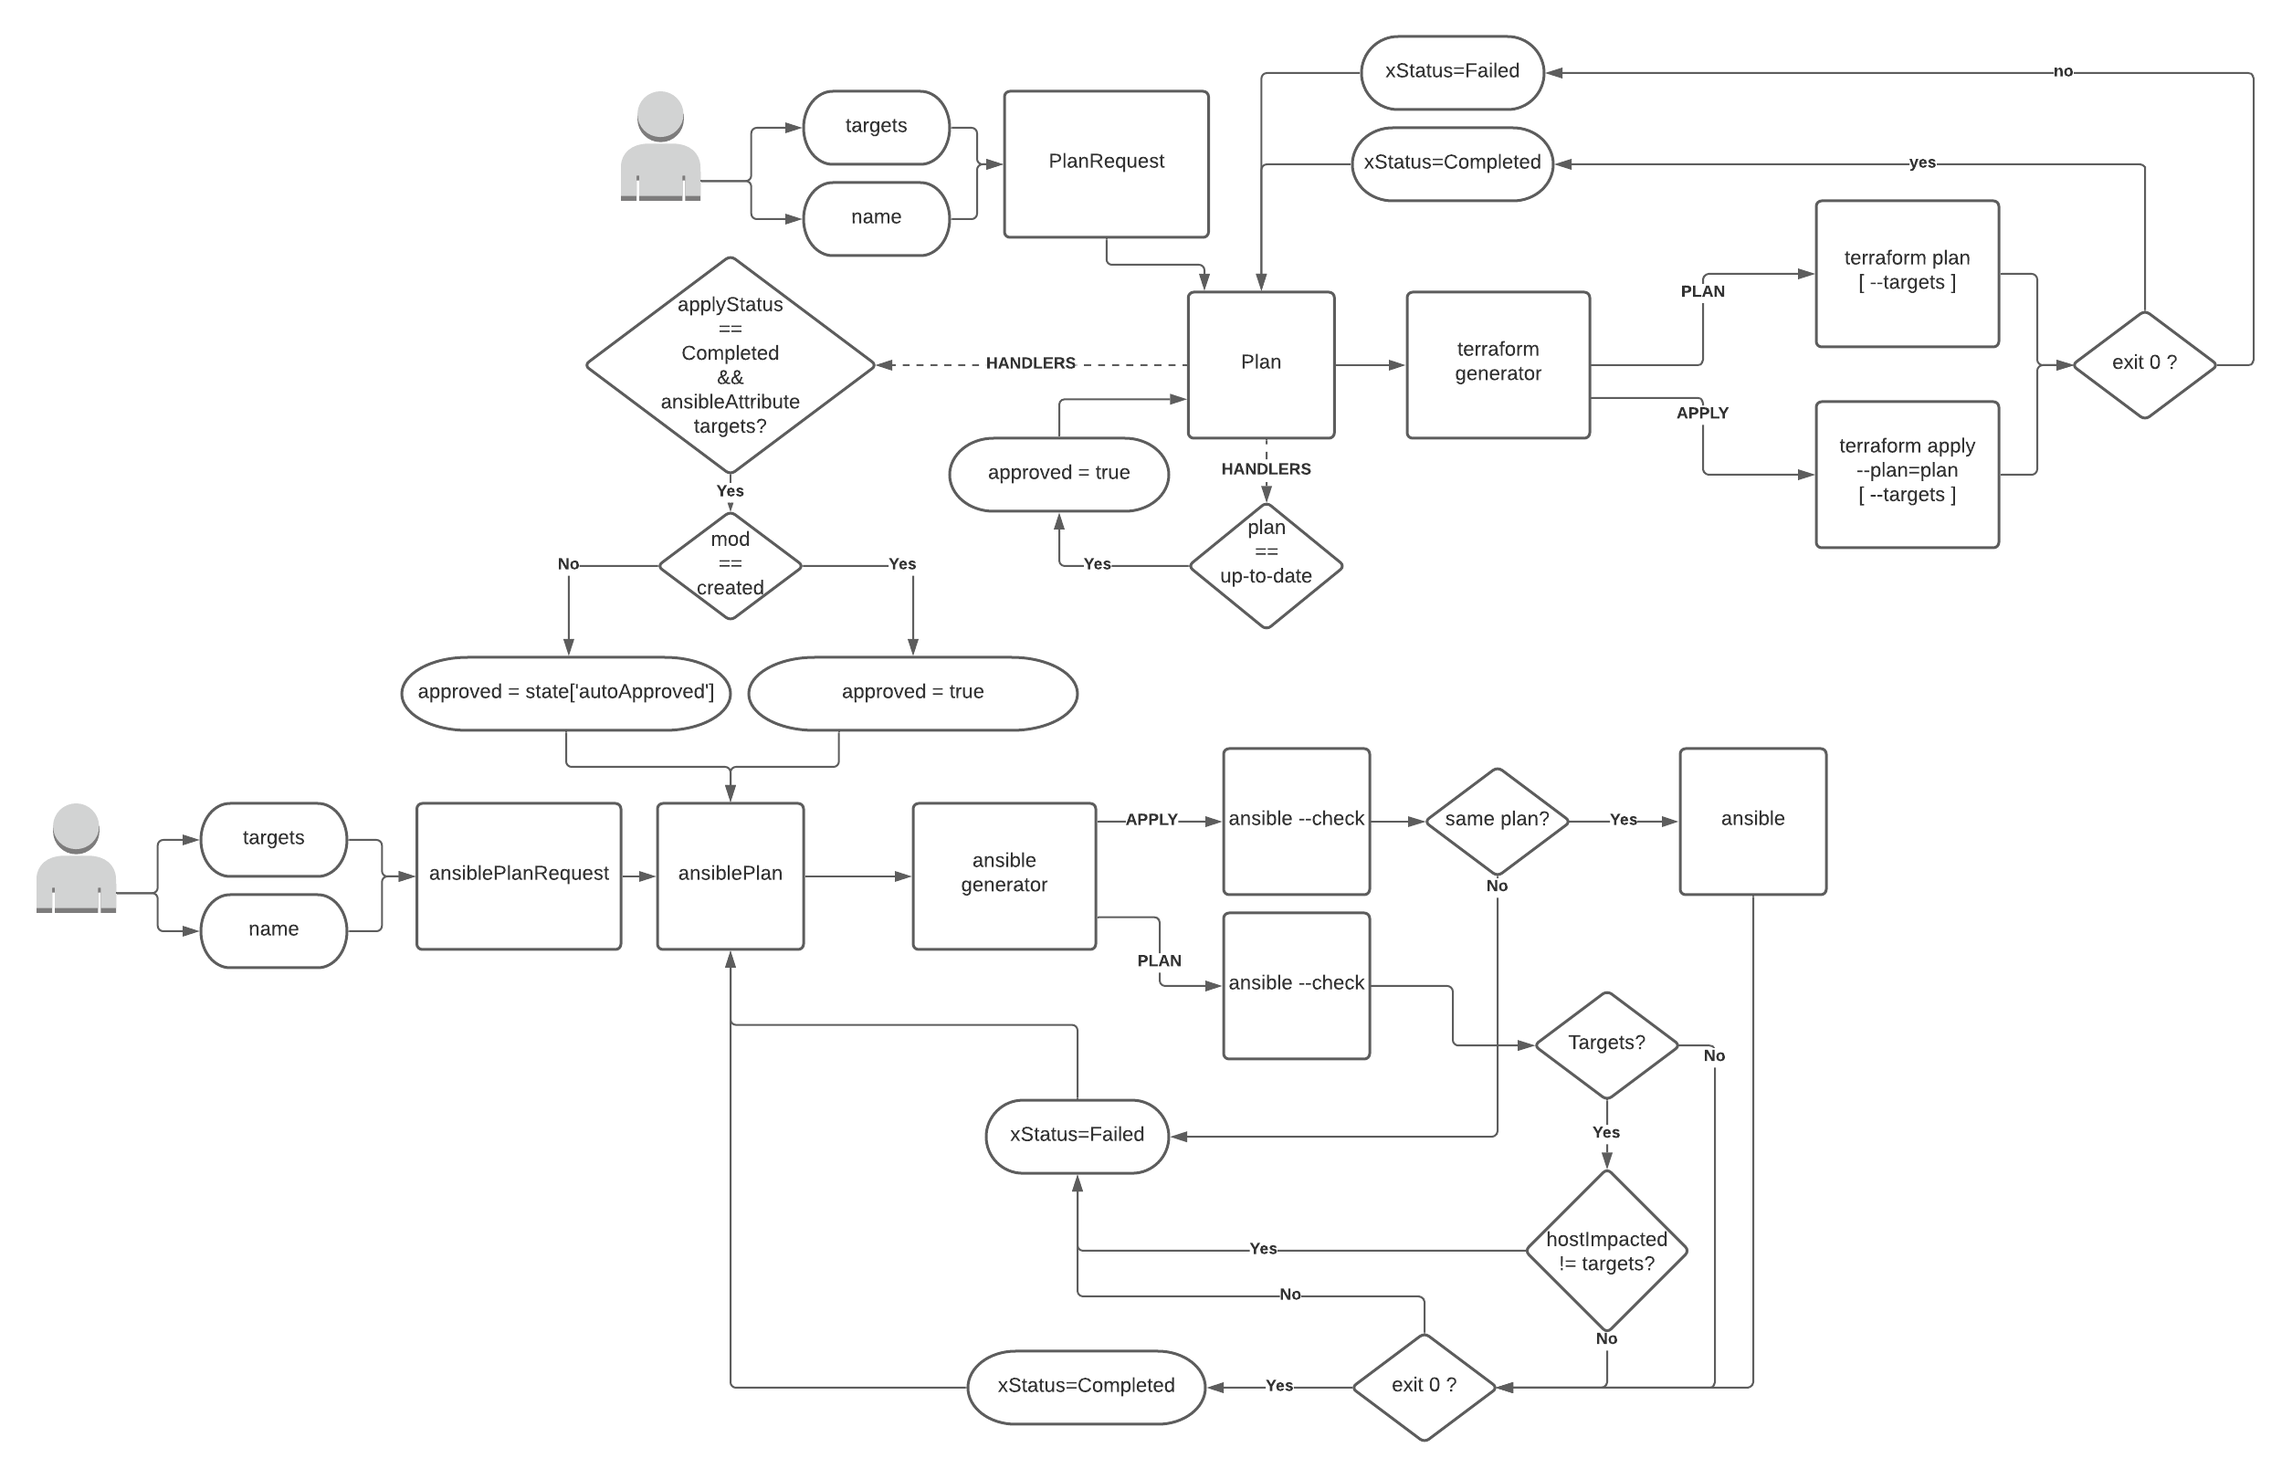
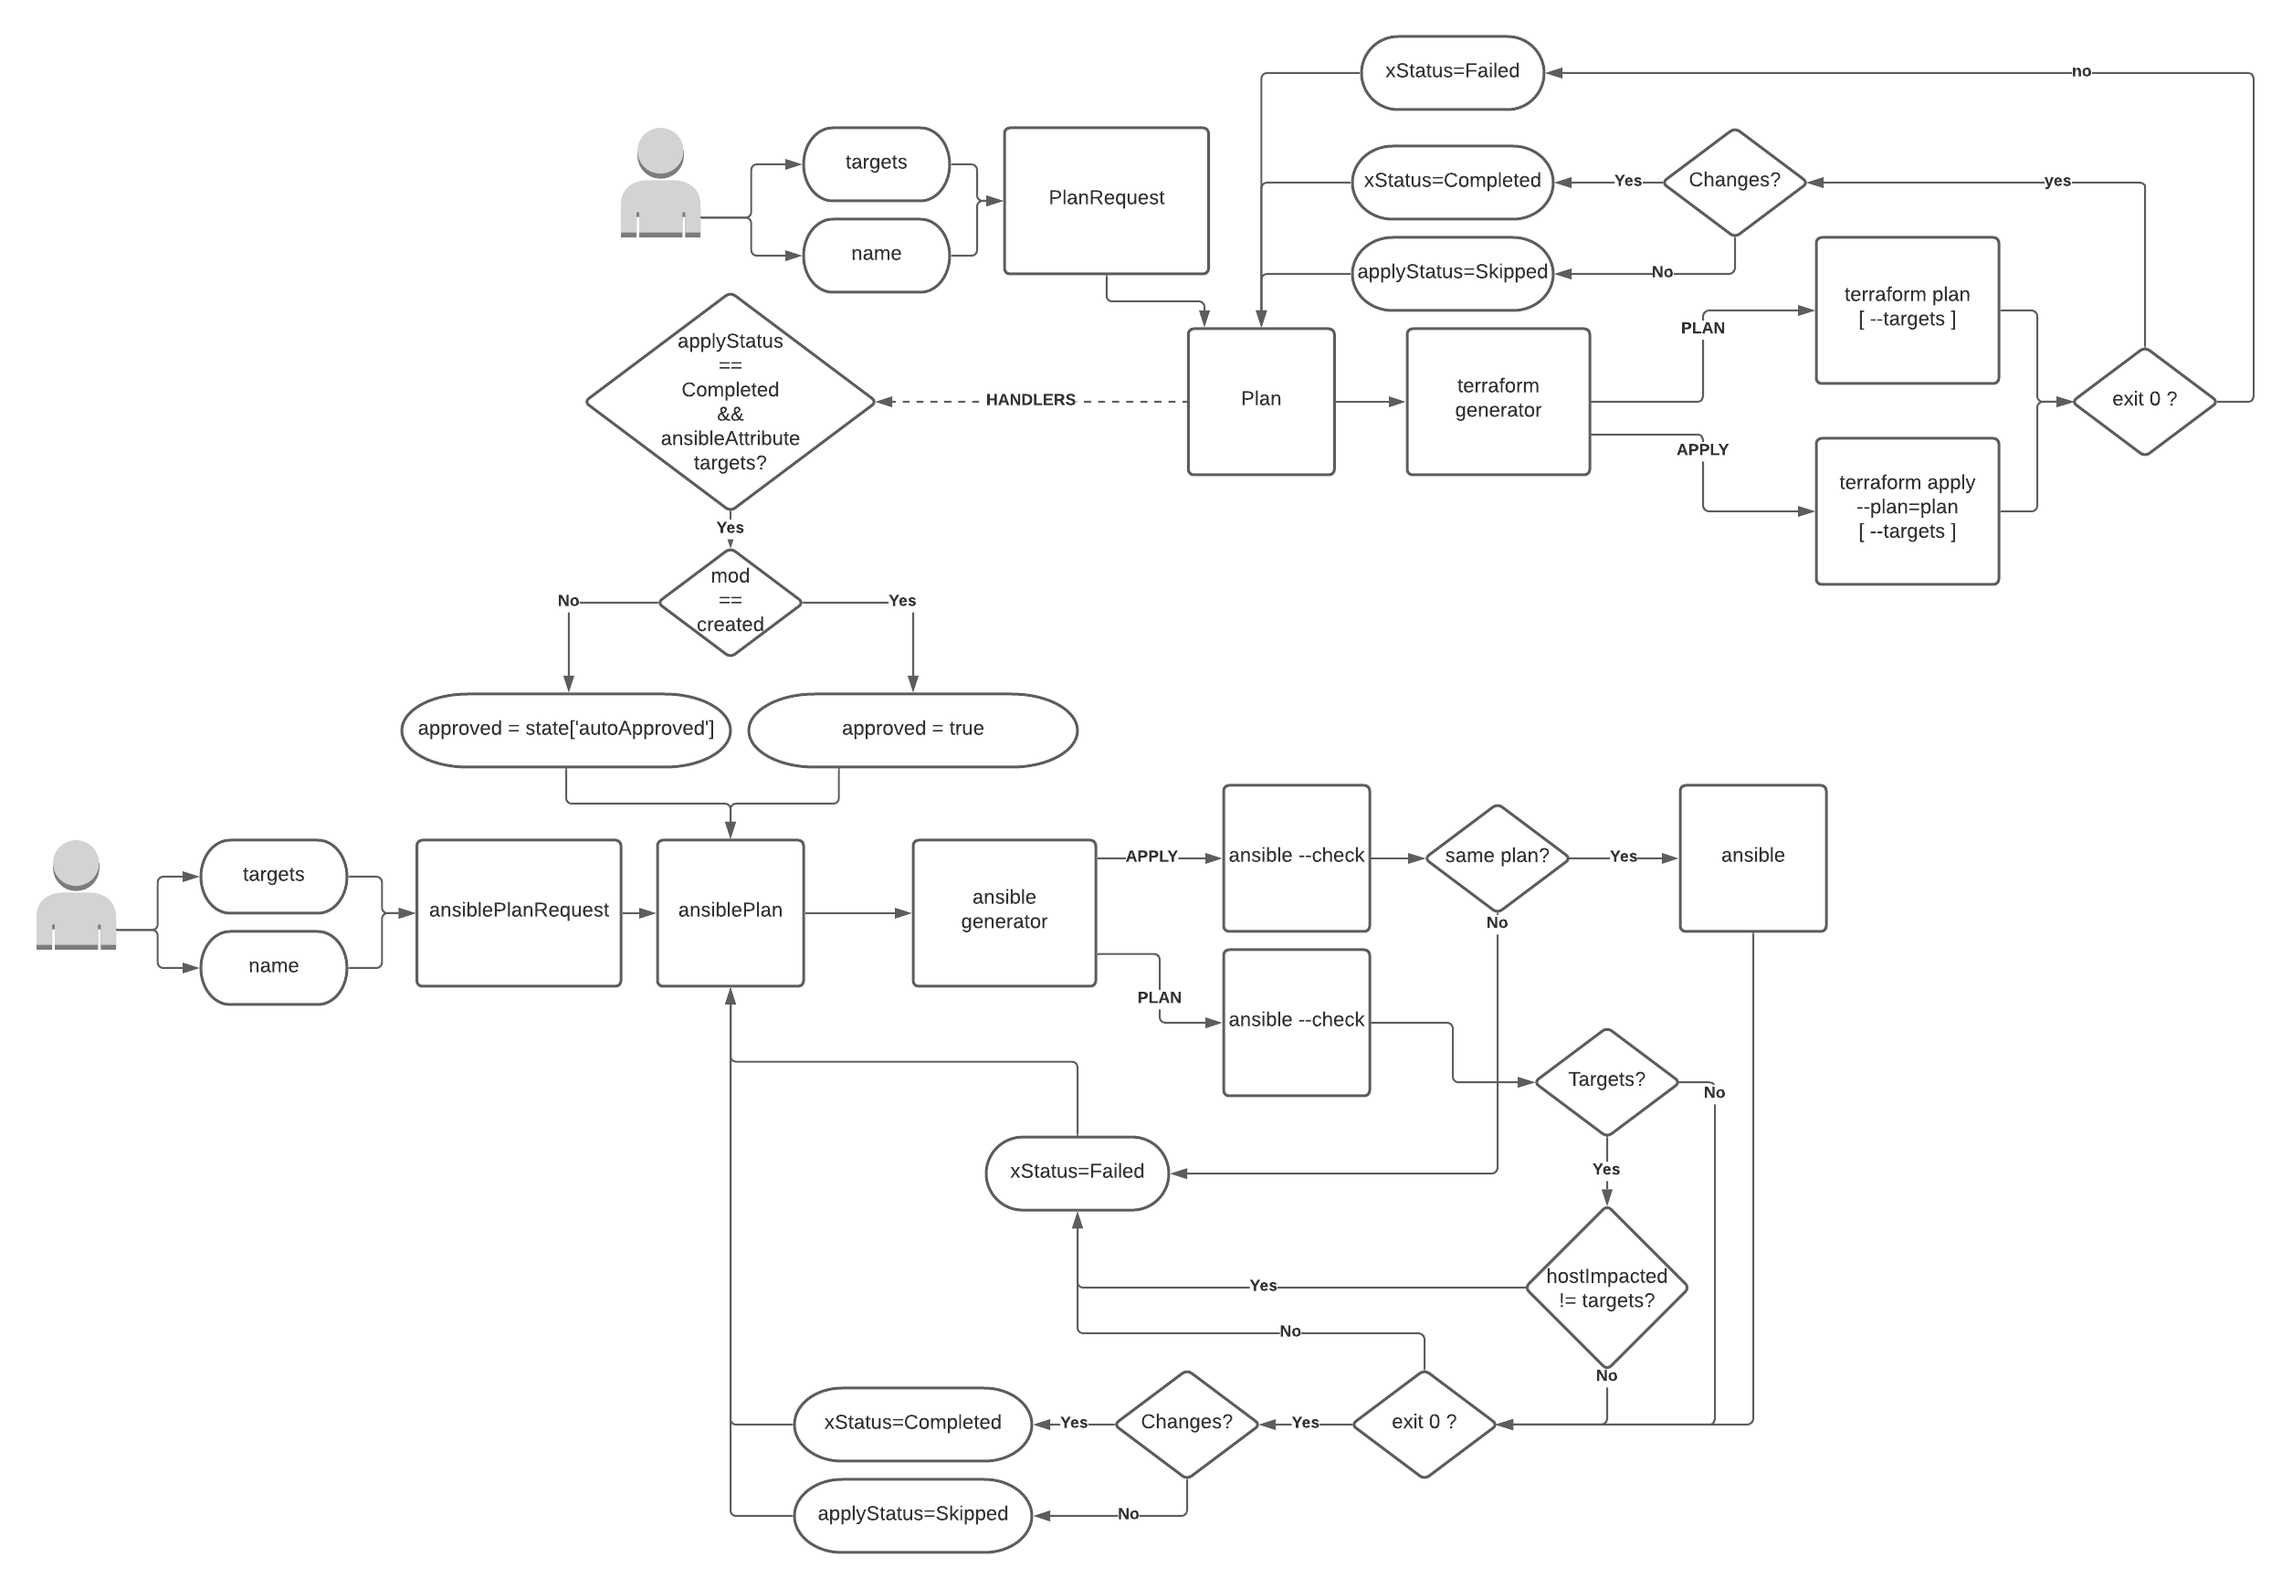
Added Skipped applyStatus

diff --git a/images/ui/templates/plan.html b/images/ui/templates/plan.html
@@ -52,7 +52,7 @@
             <div id="planoutput" class="tfoutput">  
                 {{ planOutput | safe}}
                 {% if not plan['spec']['approved'] %}/>
-                    {% if plan['status']['planStatus'] != "Failed" %}
+                    {% if plan['status']['planStatus'] != "Failed" and plan['status']['applyStatus'] != "Skipped" %}
                     <button  id="approve" class="btn btn-secondary btn-lg btn-block">Approve this plan</button>
                     {% endif %}
                 {% endif %}

diff --git a/images/terraform-operator/terraform-operator.py b/images/terraform-operator/terraform-operator.py
@@ -214,6 +214,23 @@ def create_plan(logger, kind, jobPrefx, namespace, planRequest, originalPlan=Non
   except Exception as e:
     logger.error(f'Failed to create plan for {kind} {planRequest}[{namespace}] in state {state["metadata"]["name"]}: {e}')
 
+def getAnsibleHostsImpacted(output):
+  ansi_escape = re.compile(r'\x1B(?:[@-Z\\-_]|\[[0-?]*[ -/]*[@-~])')
+  line_to_parse = []
+  found = False
+  hostsImpacted = []
+  for line in output.splitlines():
+    if found:
+      line_to_parse.append(ansi_escape.sub('', line))
+    if "PLAY RECAP **********************" in line:
+      found = True
+  for line in line_to_parse:
+    match = re.search(r"(?P<host>[0-9A-Za-z._-]+)\s+: ok=(?P<ok>\d+)\s+changed=(?P<changed>\d+)\s+unreachable=(?P<unreachable>\d+)\s+failed=(?P<failed>\d+)\s+skipped=(?P<skipped>\d+)\s+rescued=(?P<rescued>\d+)\s+ignored=(?P<ignored>\d+)" , line)
+    if match:
+      if int(match.group("changed")) != 0:
+        hostsImpacted.append(match.group('host'))
+  return hostsImpacted
+
 ## CREATE CRD handlers
 
 @kopf.on.create(API_GROUP, API_VERSION, 'planrequests')
@@ -245,13 +262,25 @@ def planStatus(diff, status, namespace, logger, body, **kwargs):
     log = get_pod_log(logger, namespace, body.status['planJob'])
     updateCustomStatus(logger, plural, namespace, body.metadata.name, {'planOutput' : log})
     if body.spec['approved']:
-        logger.info(f"{body['kind']} {body.metadata['name']} completed and approved, request scheduling")
-        job(logger, body.metadata["name"], namespace, body, 'terraform' if body['kind'] == "Plan" else "ansible", 'apply')
+      if body["kind"] == "Plan":
+        if "Your infrastructure matches the configuration." in log:
+          logger.info(f"Plan {body.metadata.name} produces an up-to-date plan, skipping apply")
+          updateCustomStatus(logger, plural, namespace, body.metadata.name, {'applyStatus': 'Skipped'})
+        else:
+          logger.info(f"{body['kind']} {body.metadata['name']} completed and approved, request scheduling")
+          job(logger, body.metadata["name"], namespace, body, 'terraform', 'apply')
+      else:
+        if len(getAnsibleHostsImpacted(log)) == 0:
+          logger.info(f"Plan {body.metadata.name} produces an up-to-date plan, skipping apply")
+          updateCustomStatus(logger, plural, namespace, body.metadata.name, {'applyStatus': 'Skipped'})
+        else:
+          logger.info(f"{body['kind']} {body.metadata['name']} completed and approved, request scheduling")
+          job(logger, body.metadata["name"], namespace, body, 'ansible', 'apply')
     else:
       if body["kind"] == "Plan":
         if "Your infrastructure matches the configuration." in log:
-          logger.info(f"Plan {body.metadata.name} produces an up-to-date plan, autoApproving")
-          custom_api_instance.patch_namespaced_custom_object(API_GROUP, API_VERSION, namespace, 'plans', body.metadata.name, {'spec': {'approved': True}})
+          logger.info(f"Plan {body.metadata.name} produces an up-to-date plan, skipping apply")
+          updateCustomStatus(logger, plural, namespace, body.metadata.name, {'applyStatus': 'Skipped'})
         else:
           if "originalPlan" in body.spec and body.spec['originalPlan'] != "":
             logger.info(f"originalPlan detected for {body.metadata['name']}: {body.spec['originalPlan']}")
@@ -268,11 +297,15 @@ def planStatus(diff, status, namespace, logger, body, **kwargs):
               custom_api_instance.patch_namespaced_custom_object(API_GROUP, API_VERSION, namespace, 'plans', body.metadata.name, {'spec': {'approved': True}})
           else:
             logger.info(f"Plan {body.metadata['name']} completed but not approved, waiting approval")
+      else:
+        if len(getAnsibleHostsImpacted(log)) == 0:
+          logger.info(f"Plan {body.metadata.name} produces an up-to-date plan, skipping apply")
+          updateCustomStatus(logger, plural, namespace, body.metadata.name, {'applyStatus': 'Skipped'})
 
   if diff[0][2] != "Failed" and diff[0][3] == "Failed":
     logger.error (f"{body['kind']} {body.metadata['name']} planning failed")
     log = get_pod_log(logger, namespace, body.status['planJob'])
-    updateCustomStatus(logger, plural, namespace, body.metadata.name, {'planOutput' : log})
+    updateCustomStatus(logger, plural, namespace, body.metadata.name, {'planOutput' : log, 'applyStatus': 'Skipped'})
   
   if diff[0][2] != "Active" and diff[0][3] == "Active":
     logger.info(f'{body["kind"]} {body.metadata["name"]} become Active')
@@ -289,10 +322,11 @@ def approved(diff, status, namespace, logger, body, **kwargs):
 @kopf.on.field(API_GROUP, API_VERSION, 'ansibleplans', field="status.applyStatus")
 def applyStatus(diff, status, namespace, logger, body, **kwargs):
   plural = 'plans' if body['kind'] == "Plan" else "ansibleplans"
-  if diff[0][2] != "Completed" and diff[0][3] == "Completed":
-    logger.info(f'{body["kind"]} {body.metadata["name"]} applying completed')
-    log = get_pod_log(logger, namespace, body.status['applyJob'])
-    updateCustomStatus(logger ,plural, namespace, body.metadata.name, {'applyOutput' : log})
+  if diff[0][2] != "Completed" and (diff[0][3] == "Completed" or diff[0][3] == "Skipped"):
+    logger.info(f'{body["kind"]} {body.metadata["name"]} applying {diff[0][3]}')
+    if diff[0][3] == "Completed":
+      log = get_pod_log(logger, namespace, body.status['applyJob'])
+      updateCustomStatus(logger ,plural, namespace, body.metadata.name, {'applyOutput' : log})
     if body['kind'] == "Plan" and not body['metadata']['name'].startswith('delete-mod-'):
       module_names = []
       create_ansible_plan = False
